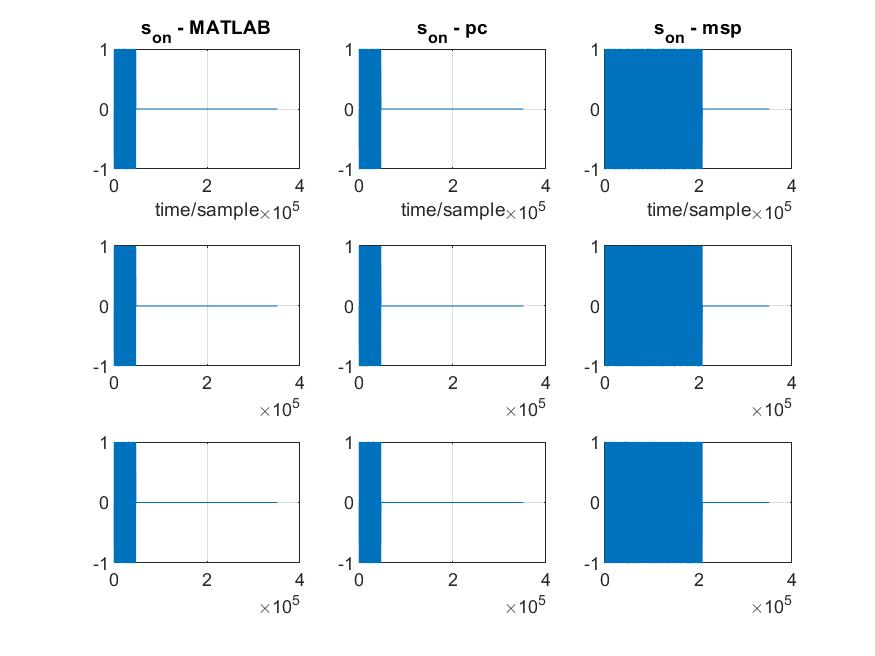
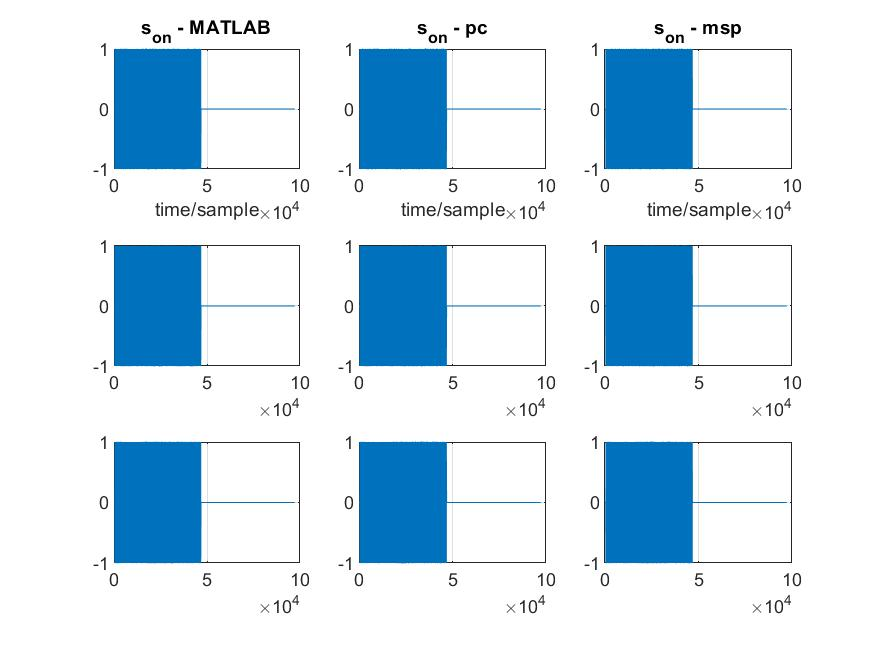
add 45mins of HiL

diff --git a/detumble_algo_msp/detumble_algo.c b/detumble_algo_msp/detumble_algo.c
@@ -10,12 +10,20 @@ signed char T2[3][3] = {1, 0, 0, 0, 1, 0, 0, 0, -1};
 vector_t b1_bias = {0,0,0};
 vector_t b2_bias = {0,0,0};
 typedef unsigned char bool;
+
+int sign_fn(double a)
+{
+	if (a == 0) return 0;
+	if (a < 0) return -1;
+	if (a > 0) return 1;
+}
+
 /*
  * Description: performs step3 of detumbling on ADCS - Sensor readings and fusion
  * input:  weights, raw and bias values of each sensor
  * output: normalized and fused magnetic field readings.
-*/
-void step3_biasCalc(float w1, vector_t b1_raw, vector_t b1_bias, float w2, vector_t b2_raw, vector_t b2_bias, vector_t* b_cur, vector_t* b_cur_norm)
+ */
+void step3_biasCalc(double w1, vector_t b1_raw, vector_t b1_bias, double w2, vector_t b2_raw, vector_t b2_bias, vector_t* b_cur, vector_t* b_cur_norm)
 {
 	//vector_t b1_cur; b2_cur; b1_bias; b2_bias; b1_raw; b2_raw, b_cur;
 	vector_t b1_cur, b2_cur;
@@ -34,7 +42,7 @@ void step3_biasCalc(float w1, vector_t b1_raw, vector_t b1_bias, float w2, vecto
 	b_cur->y = w1*b1_cur.y + w2*b2_cur.y;
 	b_cur->z = w1*b1_cur.z + w2*b2_cur.z;
 
-	float temp_norm = sqrt(b_cur->x*b_cur->x + b_cur->y*b_cur->y + b_cur->z*b_cur->z);
+	double temp_norm = sqrt(b_cur->x*b_cur->x + b_cur->y*b_cur->y + b_cur->z*b_cur->z);
 	b_cur_norm->x = b_cur->x / temp_norm;
 	b_cur_norm->y = b_cur->y / temp_norm;
 	b_cur_norm->z = b_cur->z / temp_norm;
@@ -42,7 +50,7 @@ void step3_biasCalc(float w1, vector_t b1_raw, vector_t b1_bias, float w2, vecto
 	//return b_cur_norm;
 }
 
-float Tc = 0.25; // 4 Hz, 250 ms
+double Tc = 0.25; // 4 Hz, 250 ms
 /*
  * Description: performs step4 of the detumbling on ADCS - Bdot calculation
  * input: b_cur, b_prev, b_cur_norm, b_prev_norm
@@ -76,7 +84,7 @@ void step4_bdotCalc(vector_t b_cur, vector_t b_cur_norm, vector_t b_prev, vector
 }
 
 
-float alpha = 0.01; 
+double alpha = 0.01; 
 /*
  * Description: performs step5 of the detumbling algorithm - tumble parameter update
  * input: alpha, p_tumb, b_dot
@@ -87,30 +95,35 @@ float alpha = 0.01;
 vector_t step5_tumbleParam(vector_t b_dot_norm) 
 {
 	// TODO: verify on MSP432: check if it works, the static implemenation
-	static vector_t p_tumb    = {2,2,2};
-	
+	static vector_t p_tumb = {2,2,2};
+	static bool first_call = true;
+
 	// if (b_dot_old.x != b_dot_norm.x || b_dot_old.y != b_dot_norm.y || b_dot_old.z != b_dot_norm.z) {
 	p_tumb.x = alpha* fabs(b_dot_norm.x) + (1-alpha)*p_tumb.x;
 	p_tumb.y = alpha* fabs(b_dot_norm.y) + (1-alpha)*p_tumb.y;
 	p_tumb.z = alpha* fabs(b_dot_norm.z) + (1-alpha)*p_tumb.z;
 	
+	if (first_call == true) {
+		p_tumb.x = 2; p_tumb.y = 2; p_tumb.z = 2;
+		first_call = false;
+	}
 	return p_tumb;
 }
 
-float detumble_p_bar_upp = 0.085;
-float detumble_p_bar_low = 0.075;
+double detumble_p_bar_upp = 0.085;
+double detumble_p_bar_low = 0.075;
 /*
  * Description: performs step6 of the detumbling algorithm - counter update
  * input: p_tumb
  * output: c_tumble
  * Make sure the counter is unsigned int, unclear overflow errors upon saturation
  */
-void step6_countUpdate(vector_t b_dot_norm, unsigned int* c_tumb, unsigned int* c_detumb)
+void step6_countUpdate(vector_t p_tumb, unsigned int* c_tumb, unsigned int* c_detumb)
 {
 	// static int detumble_count_detumb = 0;
 	// static int detumble_count_tumb = 0;
 
-	if (b_dot_norm.x <= detumble_p_bar_low && b_dot_norm.y <= detumble_p_bar_low && b_dot_norm.z <= detumble_p_bar_low) {
+	if (p_tumb.x <= detumble_p_bar_low && p_tumb.y <= detumble_p_bar_low && p_tumb.z <= detumble_p_bar_low) {
 		// saturate timer, avoid overflows
 		if (*c_detumb < 65535) {
 			*c_detumb = *c_detumb + 1;
@@ -120,7 +133,7 @@ void step6_countUpdate(vector_t b_dot_norm, unsigned int* c_tumb, unsigned int* 
 		*c_detumb = 0;
 	}
 
-	if (b_dot_norm.x >= detumble_p_bar_upp || b_dot_norm.y >= detumble_p_bar_upp || b_dot_norm.z >= detumble_p_bar_upp) {
+	if (p_tumb.x >= detumble_p_bar_upp || p_tumb.y >= detumble_p_bar_upp || p_tumb.z >= detumble_p_bar_upp) {
 		// saturate timer, avoid overflows
 		if (*c_tumb < 65535) {
 			*c_tumb = *c_tumb + 1;
@@ -131,8 +144,8 @@ void step6_countUpdate(vector_t b_dot_norm, unsigned int* c_tumb, unsigned int* 
 	}
 }
 
-float t_conf_tumb = 120;
-float t_conf_detumb = 3600;
+double t_conf_tumb = 120;
+double t_conf_detumb = 3600;
 /*
  * Description: performs step7 of the detumbling algorithm - decision to actuate
  * input: c_tumble, c_detumble
@@ -155,7 +168,7 @@ int step7_assessRotation(unsigned int* c_tumb, unsigned int* c_detumb) //, vecto
 // TODO: Step8 to be implemented on OBC
 
 
-float k_w = 1.2073917;
+double k_w = 1.2073917;
 /*
  * Description: performs step8 of the detumbling algorithm - how much to actuate
  * input: k_w, b_cur, d_dot_norm
@@ -164,15 +177,15 @@ float k_w = 1.2073917;
 vector_t step9_controlCalc(vector_t b_cur, vector_t b_dot_norm)
 {
 	vector_t m_des;
-	float temp_norm = sqrt(b_cur.x*b_cur.x + b_cur.y*b_cur.y + b_cur.z*b_cur.z);
+	double temp_norm = sqrt(b_cur.x*b_cur.x + b_cur.y*b_cur.y + b_cur.z*b_cur.z);
 	m_des.x = -k_w * b_dot_norm.x / temp_norm;
 	m_des.y = -k_w * b_dot_norm.y / temp_norm;
 	m_des.z = -k_w * b_dot_norm.z / temp_norm;
 	return m_des;
 }
 
-float delta = 0.6;
-float Ta;
+double delta = 0.6;
+double Ta;
 
 vector_t m_max = {0.002, 0.002, 0.002};
 vector_t m_pol = { 1, 1, 1 };
@@ -200,19 +213,19 @@ void step10_torqueActuate(vector_t m_des, vector_t m_pol, vector_t* t_on, vector
 	t_on->z = Ta * MIN(1, var.z);
 
 	// direction
-	s_on->x = m_pol.x * SGN(m_des.x);
-	s_on->y = m_pol.y * SGN(m_des.y);
-	s_on->z = m_pol.z * SGN(m_des.z);
+	s_on->x = m_pol.x * sign_fn(m_des.x);
+	s_on->y = m_pol.y * sign_fn(m_des.y);
+	s_on->z = m_pol.z * sign_fn(m_des.z);
 	// TODO: add actuation signals
 }
 
-float Ts = 0.02;
+double Ts = 0.02;
 /*
  * Description: Hold for desaturate/hysterisis 
  * input: control, hold and actuation time
  * output: stop processor in the meantime
  */
-float step11_hold()
+double step11_hold()
 {
 	return 0;
 	// delay(Ta+Tc+Ts);

diff --git a/detumble_algo_msp/detumble_main.c b/detumble_algo_msp/detumble_main.c
@@ -78,12 +78,13 @@ void *mainThread(void *arg0)
     // init parsing variables
     char *token = 0;
     int column = 0;
-    float parse_row[17];
+    float parse_row[6];
 
     /* unidenitified registers from earlier code, study effect under large execution time on FPU*/
     // WDT_A->CTL = WDT_A_CTL_PW | WDT_A_CTL_HOLD;      // stop watchdog timer
     
     while(1) {
+
         len = UART_read(uart0, readBuf, UART_BUFFER_SIZE);
 
         // if read is successful, parse the csv row
@@ -109,7 +110,7 @@ void *mainThread(void *arg0)
             // they are just incremented by controlLoop
             static unsigned int c_tumb = 0;
             static unsigned int c_detumb = 0;
-
+            GPIO_write(Board_GPIO_LED0, Board_GPIO_LED_ON);
             controlLoop(mag1Data, mag2Data, &s_on, &t_on, &p_tumb, &c_tumb, &c_detumb);
             len = snprintf(writeBuf, UART_BUFFER_SIZE, 
                 "%lf,%lf,%lf,%lf,%lf,%lf,%lf,%lf,%lf,%lf,%lf,%lf,%lf,%lf,%lf,%d,%d\n",
@@ -120,9 +121,10 @@ void *mainThread(void *arg0)
                 p_tumb.x, p_tumb.y, p_tumb.z,
                 c_tumb, c_detumb);
 
+
             // flush result to python 
             UART_write(uart0, writeBuf, len);
-
+            GPIO_write(Board_GPIO_LED0, Board_GPIO_LED_OFF);
             // preliminaries before next csv read
             memset(writeBuf, 0, 200);
             memset(readBuf, 0, 200);

diff --git a/detumble_algo_msp/detumble_algo.h b/detumble_algo_msp/detumble_algo.h
@@ -54,12 +54,13 @@ extern "C" {
 #define MAX(a,b) (((a)>(b))?(a):(b))
 
 typedef struct {
-	float x; 
-	float y; 
-	float z;
+	double x; 
+	double y; 
+	double z;
 } vector_t;
 
-void step3_biasCalc(float w1, vector_t b1_raw, vector_t b1_bias, float w2, vector_t b2_raw, vector_t b2_bias, vector_t* b_cur, vector_t* b_cur_norm);
+int sign_fn(double a);
+void step3_biasCalc(double w1, vector_t b1_raw, vector_t b1_bias, double w2, vector_t b2_raw, vector_t b2_bias, vector_t* b_cur, vector_t* b_cur_norm);
 void step4_bdotCalc(vector_t b_cur, vector_t b_cur_norm, vector_t b_prev, vector_t b_prev_norm, vector_t* b_dot, vector_t* b_dot_norm);
 vector_t step5_tumbleParam(vector_t b_dot);
 void step6_countUpdate(vector_t p_tumb, unsigned int* c_tumb, unsigned int* c_detumb);
@@ -67,7 +68,7 @@ int step7_assessRotation(unsigned int* c_tumb, unsigned int* c_detumb);//, vecto
 // TODO: Step8 to be implemented on OBC
 vector_t step9_controlCalc(vector_t b_cur, vector_t b_dot_norm);
 void step10_torqueActuate(vector_t m_des, vector_t m_pol, vector_t* t_on, vector_t* s_on);
-float step11_hold();
+double step11_hold();
 
 void controlLoop(vector_t b1_raw, vector_t b2_raw, 
 				 vector_t* s_on, vector_t* t_on, vector_t* p_tumb, 

diff --git a/plotters/hil_pc.py b/plotters/hil_pc.py
@@ -1,7 +1,7 @@
 import csv
 import serial
 from time import sleep
-ser = serial.Serial('COM3')
+ser = serial.Serial('COM6')
 # open the line, conf UART
 with ser:
     ser.setDTR(False)
@@ -9,11 +9,11 @@ with ser:
     ser.flushInput()
     ser.setDTR(True)
 
-ser = serial.Serial('COM3', baudrate=115200, timeout=None)
-outfile = open('data4test_03_out_msp.csv', mode='w')
+ser = serial.Serial('COM6', baudrate=115200, timeout=None)
+outfile = open('data4test_04_out_msp.csv', mode='w')
 #csv_writer = csv.writer(out_file, delimiter=',')
 
-with open('data4test_03_in.csv') as infile:
+with open('data4test_04_in.csv') as infile:
     csv_reader = csv.reader(infile, delimiter=',')
     line_count = 0
     for row in csv_reader:
@@ -22,7 +22,8 @@ with open('data4test_03_in.csv') as infile:
             str1 = ','.join(row)
             str1 = str1 + '\n'
             ser.write(str1.encode())
-
+            # string written to MSP,
+            # wait in UART blocking mode, for MSP to reply back
             rxString = ser.readline()
             # csv_writer.writerow([rxString.decode('utf-8')])
             # HeadsUp: Windows and Python3 interpret things in a weird way.

diff --git a/plotters/compare_plots.m b/plotters/compare_plots.m
@@ -1,8 +1,8 @@
 % plot detumble parameter for verifying the C and matlab detumble algorithms
 
-readMatrix_r = csvread('data4test_03_in2.csv', 1, 0);
-readMatrix_pc = csvread('data4test_03_out_pc3.csv', 1, 0);
-readMatrix_msp = csvread('data4test_03_out_msp.csv', 1, 0);
+readMatrix_r = csvread('data4test_03_in.csv', 1, 0);
+readMatrix_pc = csvread('data4test_04_in.csv', 1, 0);
+readMatrix_msp = csvread('data4test_04_out_msp.csv', 1, 0);
 
 % to be able to plot incomplete HIL tests, resize everyone to MSP432's
 % iterates
